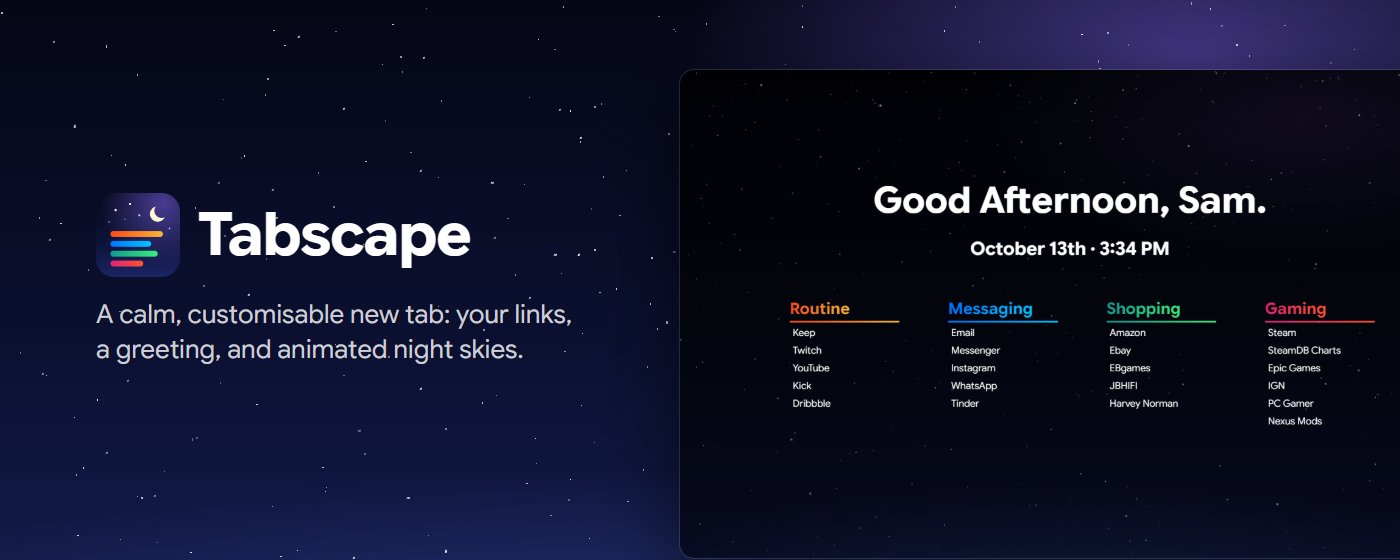
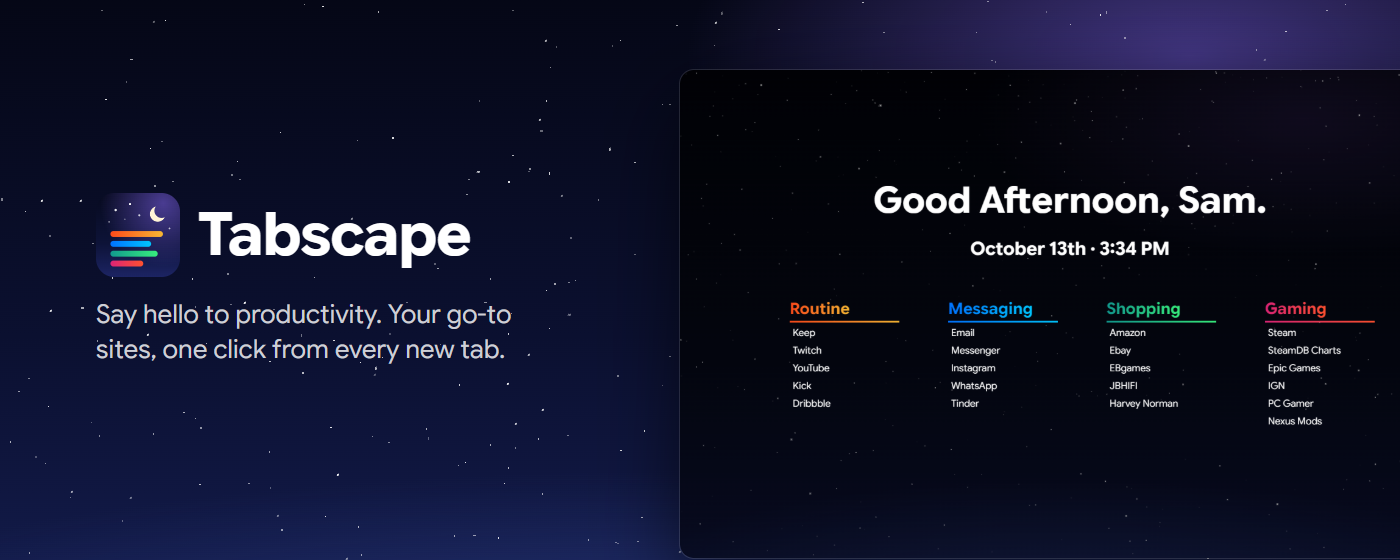
New tagline: Say hello to productivity
On the website hero, the extension summary, the README, the listing and
the promo tiles.

Changed region(s): [[0.0614, 0.5464, 0.43, 0.6679]]

diff --git a/site/index.html b/site/index.html
@@ -4,10 +4,10 @@
     <meta charset="UTF-8">
     <meta name="viewport" content="width=device-width, initial-scale=1.0">
     <link rel="icon" type="image/svg+xml" href="../src/assets/logo.svg" />
-    <title>Tabscape: a new tab that feels like home</title>
-    <meta name="description" content="A new tab that feels like home: your favourite sites, a friendly hello, and a night sky that moves. Free for Chrome and Firefox.">
+    <title>Tabscape: say hello to productivity</title>
+    <meta name="description" content="Say hello to productivity: your go-to sites one click away on every new tab, with zero clutter and seriously good looks. Free for Chrome and Firefox.">
     <meta property="og:title" content="Tabscape">
-    <meta property="og:description" content="A new tab that feels like home: your favourite sites, a friendly hello, and a night sky that moves.">
+    <meta property="og:description" content="Say hello to productivity: your go-to sites one click away on every new tab, with zero clutter and seriously good looks.">
     <meta name="theme-color" content="#070a1f">
 </head>
 <body>

diff --git a/src/site/Landing.vue b/src/site/Landing.vue
@@ -69,10 +69,10 @@ const active = ref(0)
       <!-- Hero -->
       <section class="mx-auto max-w-6xl px-5 pb-16 pt-10 text-center sm:pt-16">
         <h1 class="mx-auto max-w-3xl text-5xl font-bold leading-[1.05] tracking-tight sm:text-7xl">
-          A new tab that feels like home.
+          Say hello to productivity.
         </h1>
         <p class="mx-auto mt-6 max-w-xl text-lg text-white/75 sm:text-xl">
-          Your favourite sites, a friendly hello, and a night sky that moves. Every time you open a tab.
+          Your go-to sites, one click from every new tab. Zero clutter. Seriously good looks.
         </p>
         <div class="mt-9 flex flex-wrap items-center justify-center gap-3">
           <a

diff --git a/README.md b/README.md
@@ -4,7 +4,7 @@
 
 <h1 align="center">Tabscape</h1>
 
-<p align="center">A new tab that feels like home: your favourite sites, a friendly hello, and a night sky that moves.</p>
+<p align="center">Say hello to productivity: your go-to sites one click away on every new tab, with zero clutter and seriously good looks.</p>
 
 <p align="center">
   <a href="https://heyjeay.github.io/tabscape/">Website</a> ·

diff --git a/store/LISTING.md b/store/LISTING.md
@@ -8,7 +8,7 @@ Copy these into the Developer Dashboard. Images are in this folder.
 
 **Summary** (132 characters max)
 
-> A new tab that feels like home: your favourite sites, a friendly hello, and a night sky that moves.
+> Say hello to productivity: your go-to sites one click away on every new tab, with zero clutter and seriously good looks.
 
 **Category:** Productivity
 
